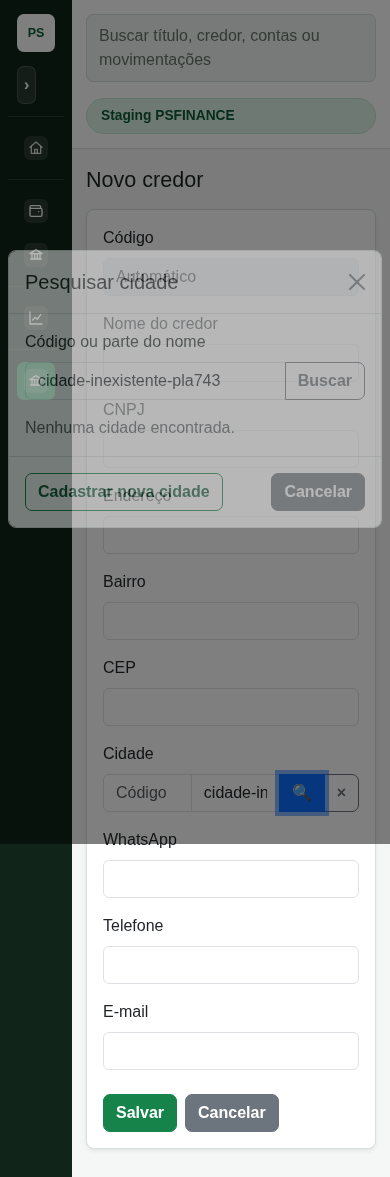
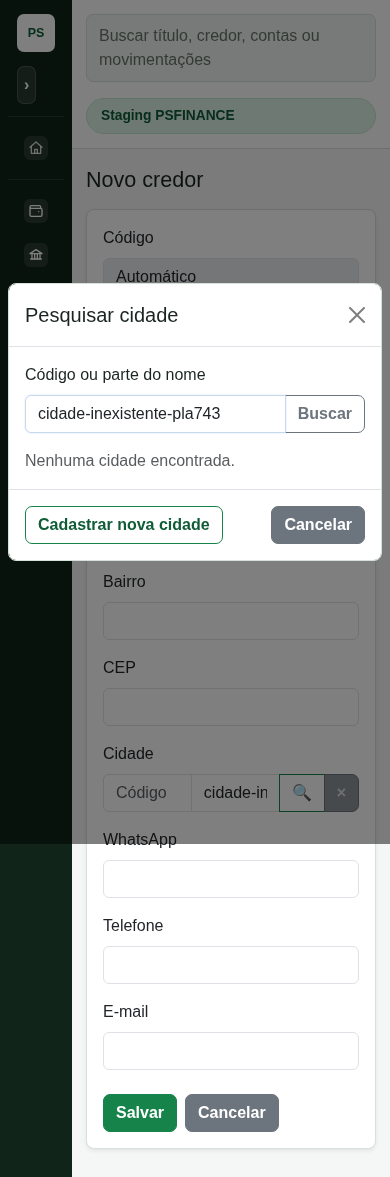
fix(PLA-743): criar layout próprio para popup auxiliar

Changed region(s): [[0.0, 0.2141, 0.9846, 0.4894], [0.7077, 0.6423, 0.9231, 0.7035]]

diff --git a/templates/credor_form.html b/templates/credor_form.html
@@ -1,4 +1,4 @@
-{% extends "base.html" %}
+{% extends "popup_base.html" if origem else "base.html" %}
 {% set titulo_pagina = "Editar credor" if credor else "Novo credor" %}
 {% block title %}{{ titulo_pagina }}{% endblock %}
 {% block content %}
@@ -28,15 +28,16 @@
   <div class="d-flex gap-2 mt-4"><button class="btn btn-success">Salvar</button>{% if origem %}<button type="button" class="btn btn-secondary" onclick="window.close()">Cancelar</button>{% else %}<a href="{{ url_for('financeiro.listar_credores') }}" class="btn btn-secondary">Cancelar</a>{% endif %}</div>
 </form>
 
-<div class="modal fade" id="modal_busca_cidade" tabindex="-1" aria-hidden="true"><div class="modal-dialog modal-dialog-centered modal-dialog-scrollable"><div class="modal-content">
+<div class="modal" id="modal_busca_cidade" tabindex="-1" aria-hidden="true"><div class="modal-dialog modal-dialog-centered modal-dialog-scrollable"><div class="modal-content">
   <div class="modal-header"><h2 class="modal-title fs-5">Pesquisar cidade</h2><button class="btn-close" data-bs-dismiss="modal" aria-label="Fechar"></button></div>
-  <div class="modal-body"><label class="form-label">Código ou parte do nome</label><div class="input-group mb-3"><input type="search" id="busca_cidade" class="form-control"><button type="button" id="atualizar_cidades" class="btn btn-outline-secondary">Buscar</button></div><div id="resultado_busca_cidade" class="list-group"></div><p id="mensagem_busca_cidade" class="text-muted d-none mb-0"></p></div>
+  <div class="modal-body"><label class="form-label">Código ou parte do nome</label><div class="input-group mb-3"><input type="text" id="busca_cidade" class="form-control" autocomplete="off"><button type="button" id="atualizar_cidades" class="btn btn-outline-secondary">Buscar</button></div><div id="resultado_busca_cidade" class="list-group"></div><p id="mensagem_busca_cidade" class="text-muted d-none mb-0"></p></div>
   <div class="modal-footer justify-content-between"><button type="button" id="nova_cidade_popup" class="btn btn-outline-primary">Cadastrar nova cidade</button><button type="button" class="btn btn-secondary" data-bs-dismiss="modal">Cancelar</button></div>
 </div></div></div>
 {% if credor_criado %}<script>if(window.opener&&!window.opener.closed){window.opener.postMessage({type: "psfinance:credor-criado", credor: {{ credor_criado|tojson }}},window.location.origin);window.close();}</script>{% endif %}
 <script>
 (()=>{
   const formulario=document.querySelector('form'),modal=document.querySelector('#modal_busca_cidade'),codigo=document.querySelector('#cidade_codigo'),nome=document.querySelector('#cidade_nome'),id=document.querySelector('#id_cidade'),busca=document.querySelector('#busca_cidade'),lista=document.querySelector('#resultado_busca_cidade'),msg=document.querySelector('#mensagem_busca_cidade');
+  document.body.appendChild(modal);
   let timer,ultimoNomeSelecionado=nome.value,revisao=0;
   const instanciaModal=()=>bootstrap.Modal.getOrCreateInstance(modal);
   const limpar=(manterNome=false)=>{revisao++;id.value='';codigo.value='';if(!manterNome)nome.value='';ultimoNomeSelecionado='';nome.setCustomValidity('');};

diff --git a/templates/popup_base.html b/templates/popup_base.html
@@ -1,0 +1,33 @@
+<!doctype html>
+<html lang="pt-br">
+  <head>
+    <meta charset="utf-8">
+    <title>{% block title %}Cadastro auxiliar - PSFINANCE{% endblock %}</title>
+    <meta name="viewport" content="width=device-width, initial-scale=1">
+    <link href="{{ url_for('static', filename='vendor/bootstrap-5.3.3/bootstrap.min.css') }}" rel="stylesheet">
+    <style>
+      :root { --ps-bg:#f4f7f5; --ps-border:#d6e1da; --ps-text:#1b2520; --ps-green:#16834a; --ps-green-dark:#0f5c36; }
+      * { box-sizing:border-box; }
+      body { background:var(--ps-bg); color:var(--ps-text); font-family:Inter,Arial,sans-serif; margin:0; }
+      .popup-titlebar { align-items:center; background:#173c28; color:#fff; display:flex; justify-content:space-between; min-height:52px; padding:10px 18px; }
+      .popup-titlebar strong { font-size:.95rem; }
+      .popup-close { background:transparent; border:0; color:#fff; font-size:1.7rem; line-height:1; padding:0 4px; }
+      .popup-shell { margin:0 auto; max-width:820px; padding:22px; }
+      .card { border-color:var(--ps-border); border-radius:8px; }
+      .btn { border-radius:7px; font-weight:700; }
+      .btn-success { background-color:var(--ps-green); border-color:var(--ps-green); }
+      .btn-success:hover { background-color:var(--ps-green-dark); border-color:var(--ps-green-dark); }
+      @media (max-width:576px) { .popup-shell { padding:14px; } }
+    </style>
+  </head>
+  <body class="popup-page">
+    <header class="popup-titlebar"><strong>Cadastro auxiliar</strong><button type="button" class="popup-close" onclick="window.close()" aria-label="Fechar janela">&times;</button></header>
+    <main class="popup-shell">
+      {% with messages = get_flashed_messages(with_categories=true) %}
+        {% for category, msg in messages %}<div class="alert {{ 'alert-danger' if category == 'erro' else 'alert-success' }} py-2">{{ msg }}</div>{% endfor %}
+      {% endwith %}
+      {% block content %}{% endblock %}
+    </main>
+    <script src="{{ url_for('static', filename='vendor/bootstrap-5.3.3/bootstrap.bundle.min.js') }}"></script>
+  </body>
+</html>

diff --git a/templates/cidade_form.html b/templates/cidade_form.html
@@ -1,3 +1,3 @@
-{% extends "base.html" %}{% set titulo_pagina = "Editar cidade" if cidade else "Nova cidade" %}{% block title %}{{ titulo_pagina }}{% endblock %}{% block content %}
+{% extends "popup_base.html" if origem else "base.html" %}{% set titulo_pagina = "Editar cidade" if cidade else "Nova cidade" %}{% block title %}{{ titulo_pagina }}{% endblock %}{% block content %}
 <h1 class="h4 mb-3">{{ titulo_pagina }}</h1><form method="post" class="card p-3 shadow-sm">{% if origem %}<input type="hidden" name="origem" value="{{ origem }}">{% endif %}<div class="row g-3"><div class="col-md-3"><label class="form-label">Código</label><input class="form-control" value="{{ cidade.id if cidade else 'Automático' }}" disabled></div><div class="col-md-9"><label class="form-label">Nome da cidade</label><input name="nome" class="form-control" required maxlength="255" value="{{ cidade.nome if cidade else '' }}"></div></div><div class="d-flex gap-2 mt-4"><button class="btn btn-success">Salvar</button>{% if origem %}<button type="button" class="btn btn-secondary" onclick="window.close()">Cancelar</button>{% else %}<a href="{{ url_for('financeiro.listar_cidades') }}" class="btn btn-secondary">Cancelar</a>{% endif %}</div></form>
 {% if cidade_criada %}<script>if(window.opener&&!window.opener.closed){window.opener.postMessage({type:'psfinance:cidade-criada',cidade:{{ cidade_criada|tojson }}},window.location.origin);window.close();}</script>{% endif %}{% endblock %}

diff --git a/tests/test_pla743_credor_cidade.py b/tests/test_pla743_credor_cidade.py
@@ -38,6 +38,36 @@ class CredorCidadeTest(unittest.TestCase):
         self.assertIn("revisaoConsulta!==revisao", html)
         self.assertIn("Selecione uma cidade válida ou limpe o campo.", html)
 
+    def test_cadastro_popup_tem_layout_proprio_sem_menu_e_header(self):
+        client = app.test_client()
+        popup = client.get("/financeiro/cidades/nova?origem=credor").get_data(as_text=True)
+        pagina = client.get("/financeiro/cidades/nova").get_data(as_text=True)
+        self.assertIn('class="popup-page"', popup)
+        self.assertIn('class="popup-shell"', popup)
+        self.assertNotIn('class="app-shell', popup)
+        self.assertNotIn('class="sidebar"', popup)
+        self.assertIn('class="app-shell', pagina)
+
+    def test_cadastro_popup_salva_retorna_e_fecha(self):
+        response = app.test_client().post(
+            "/financeiro/cidades/nova",
+            data={"origem": "credor", "nome": "São Leopoldo"},
+        )
+        html = response.get_data(as_text=True)
+        self.assertEqual(response.status_code, 200)
+        self.assertIn("psfinance:cidade-criada", html)
+        self.assertIn('"nome": "S\\u00e3o Leopoldo"', html)
+        self.assertIn("window.close()", html)
+        session = SessionLocal()
+        self.assertIsNotNone(session.query(Cidade).filter_by(nome="São Leopoldo", deleted=False).one_or_none())
+        session.close()
+
+    def test_busca_cidade_nao_usa_botao_limpar_nativo_sobreposto(self):
+        html = app.test_client().get("/financeiro/credores/novo").get_data(as_text=True)
+        self.assertIn('type="text" id="busca_cidade"', html)
+        self.assertNotIn('type="search" id="busca_cidade"', html)
+        self.assertIn("document.body.appendChild(modal)", html)
+
     def test_credor_persiste_novos_campos_e_cidade(self):
         response = app.test_client().post("/financeiro/credores/novo", data={
             "nome": "Fornecedor completo", "cnpj": "12.345.678/0001-90", "endereco": "Rua Um, 10",

diff --git a/scripts/pla743_capture_cidade_editavel.py b/scripts/pla743_capture_cidade_editavel.py
@@ -42,6 +42,16 @@ def validar(page, viewport_name):
     assert page.locator("#resultado_busca_cidade button").count() == 0
     assert page.locator("#mensagem_busca_cidade").inner_text() == "Nenhuma cidade encontrada."
     page.screenshot(path=OUTPUT_DIR / f"cidade-editavel-{viewport_name}.png", full_page=True)
+    with page.expect_popup() as popup_info:
+        page.locator("#nova_cidade_popup").click()
+    popup = popup_info.value
+    popup.wait_for_load_state("networkidle")
+    assert popup.locator(".popup-shell").count() == 1
+    assert popup.locator(".app-shell").count() == 0
+    assert popup.locator(".sidebar").count() == 0
+    assert popup.locator(".topbar").count() == 0
+    popup.screenshot(path=OUTPUT_DIR / f"popup-cidade-{viewport_name}.png", full_page=True)
+    popup.close()
 
 
 def main():
@@ -51,7 +61,7 @@ def main():
         for name, viewport in (("desktop", {"width": 1440, "height": 1000}), ("mobile", {"width": 390, "height": 844})):
             page = browser.new_page(viewport=viewport)
             validar(page, name)
-            print(f"{name}: código, nome, troca, limpeza e busca sem resultado validados")
+            print(f"{name}: busca, limpeza e popup auxiliar sem navegação validados")
             page.close()
         browser.close()
 

diff --git a/docs/decisoes.md b/docs/decisoes.md
@@ -936,3 +936,11 @@ tabelas operacionais existentes, dados produtivos, variaveis de ambiente, VPS,
 - A cidade selecionada pode ser substituída digitando novamente em qualquer campo ou removida pelo botão de limpeza.
 - O identificador persistido é invalidado imediatamente quando o usuário edita a descrição, evitando salvar uma cidade diferente daquela exibida.
 - O ajuste é somente de interface; não exige migration nem escrita administrativa no banco.
+# 2026-09-04 — Layout próprio para cadastros auxiliares em popup (PLA-743)
+
+- Formulários abertos com `origem` usam `popup_base.html`, sem menu lateral, busca global ou cabeçalho da aplicação.
+- O mesmo formulário continua usando o layout completo quando acessado pelo menu, evitando duplicação de regras e rotas.
+- O campo de pesquisa de Cidade usa entrada textual sem o botão de limpeza nativo do navegador, que sobrepunha visualmente a ação Buscar.
+- O modal é movido para o `body` antes da inicialização do Bootstrap, mantendo-o acima do backdrop fora do contexto de empilhamento do shell responsivo.
+- A transição `fade` foi removida deste modal para evitar o estado visual intermediário translúcido durante a abertura em dispositivos móveis.
+- O retorno ao formulário chamador continua por `postMessage` de mesma origem e fechamento automático após salvar.
